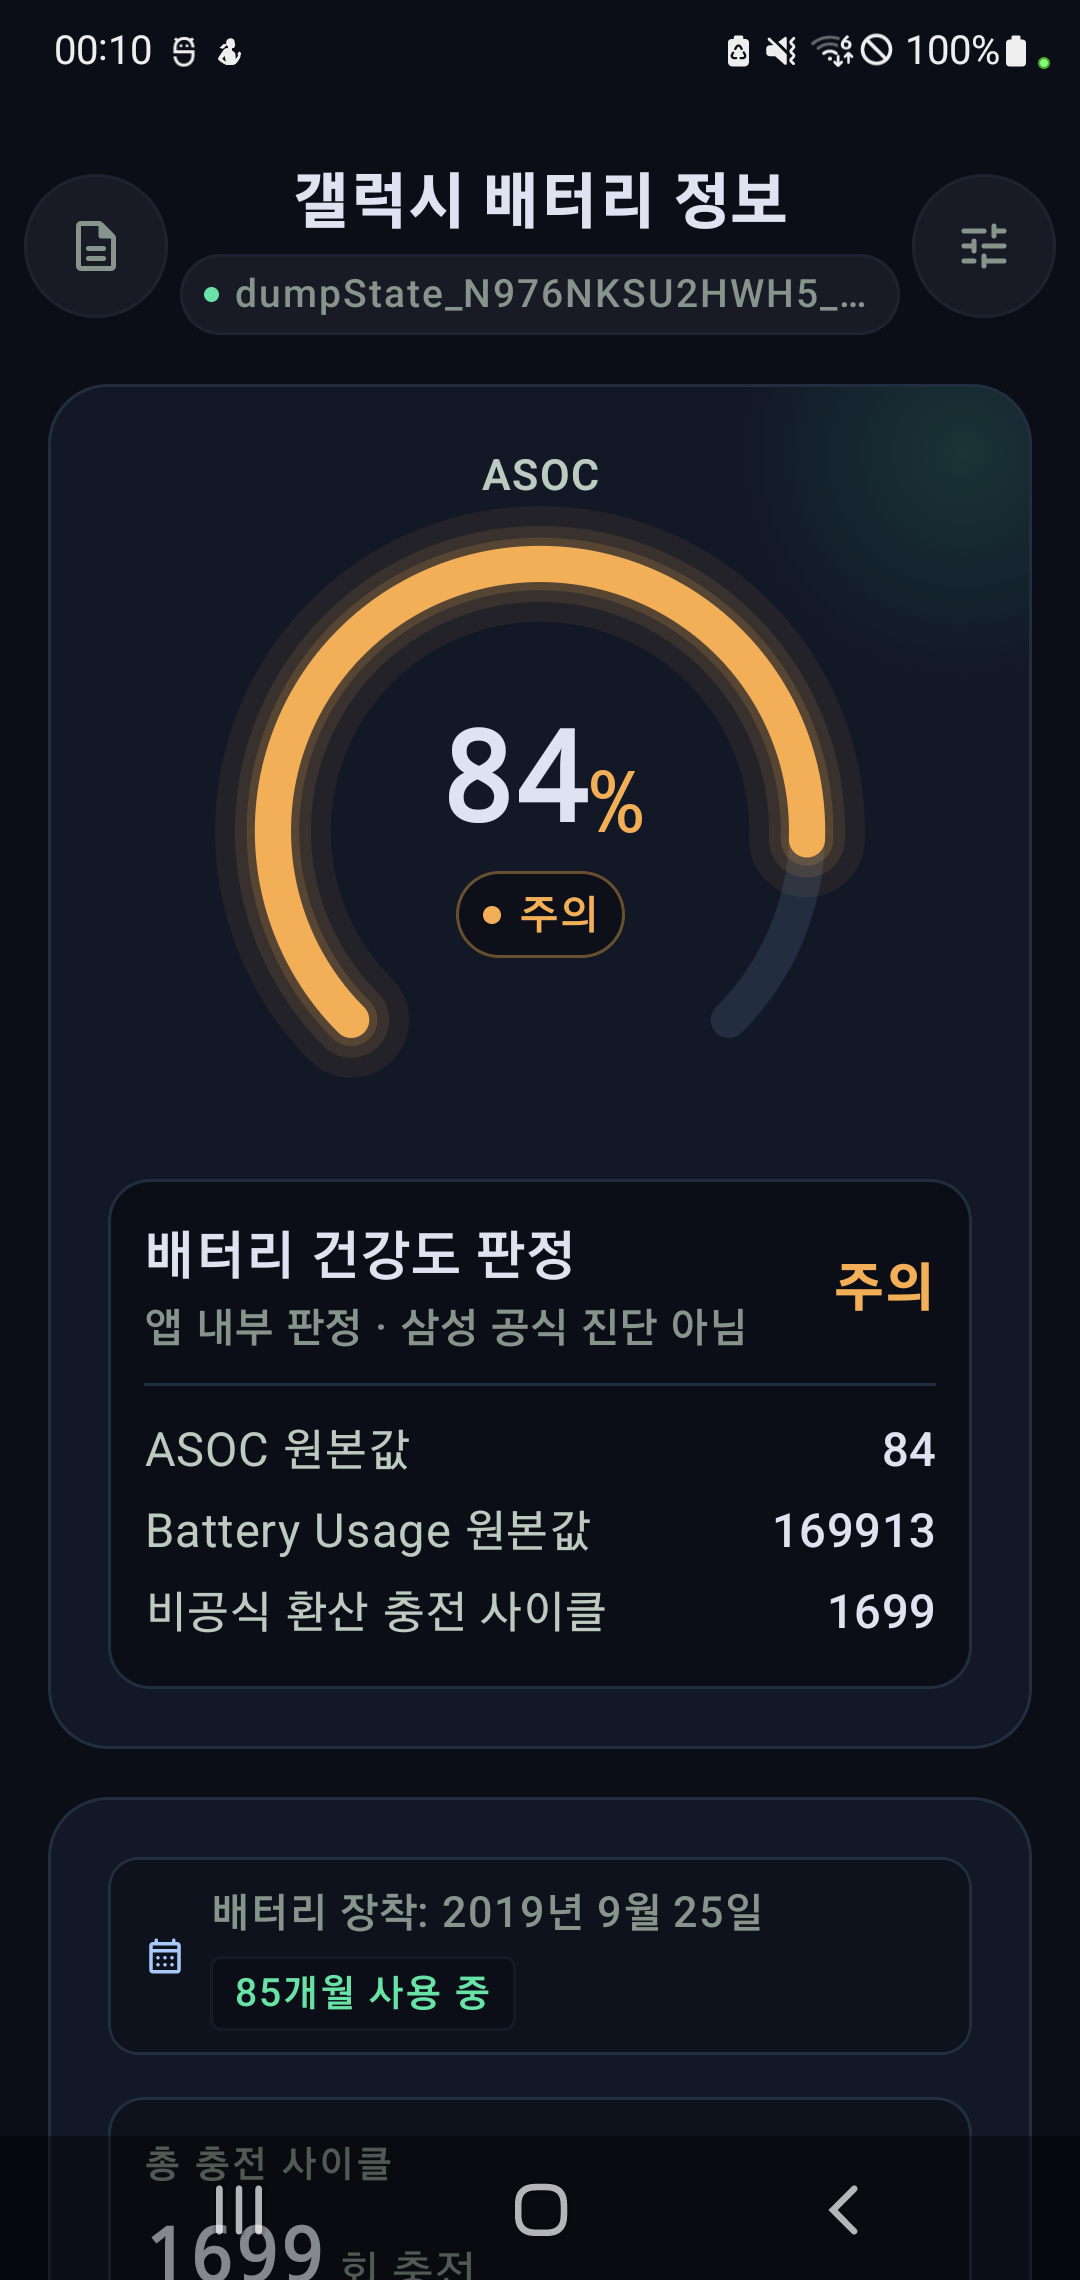
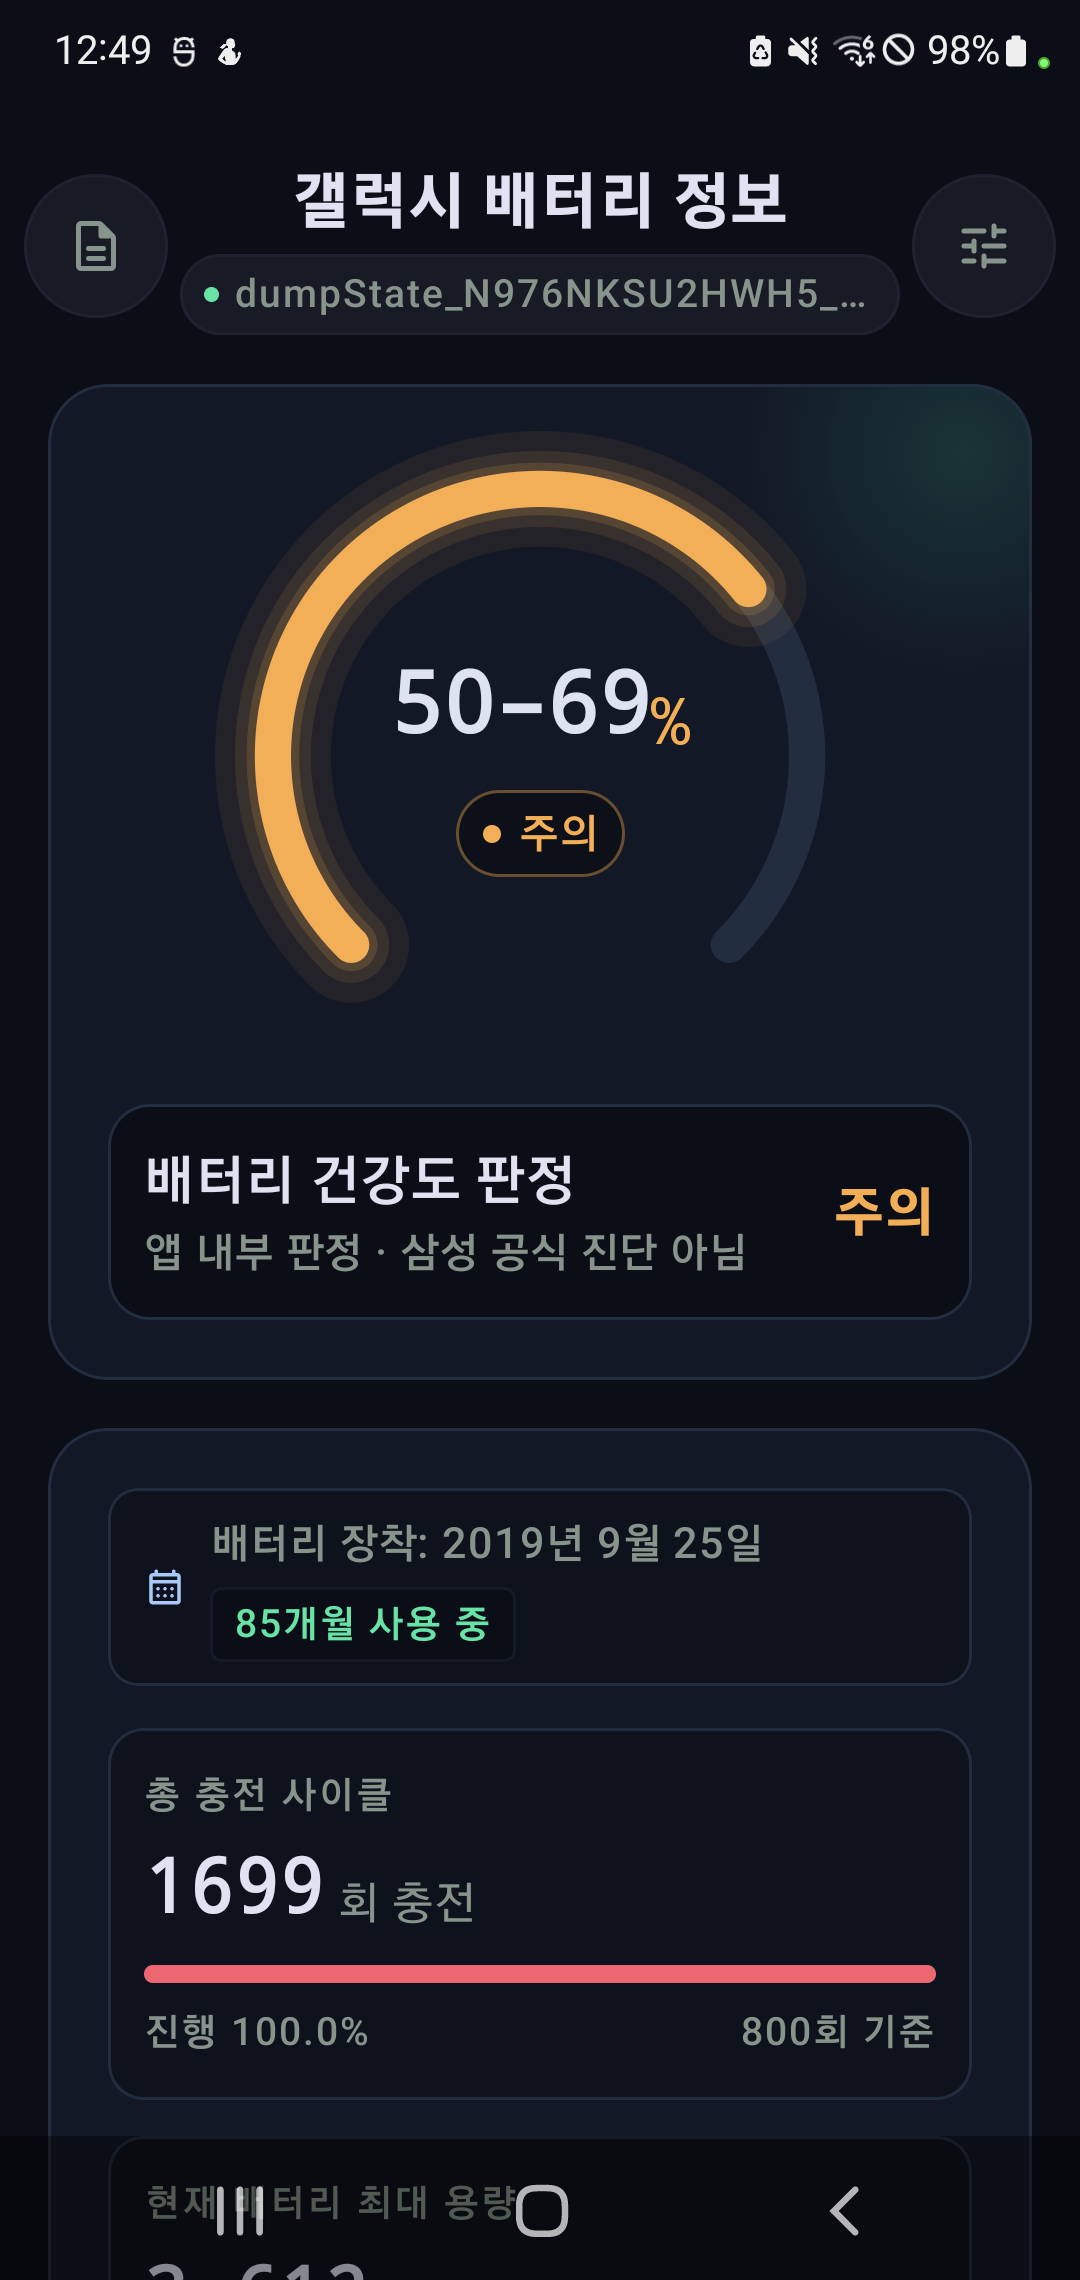
docs: README 기기 스크린샷 갱신
실제 Fold3 및 Note10+ 앱 화면을 추가하고 README 링크를 갱신합니다.

diff --git a/README.md b/README.md
@@ -7,7 +7,7 @@
 
 <table>
   <tr>
-    <td align="center"><img width="450" alt="폴드3" src="https://raw.githubusercontent.com/Donian-kor/Galaxy_Battery/main/screenshots/dashboard_fold4.png" /></td>
+    <td align="center"><img width="450" alt="폴드3" src="https://raw.githubusercontent.com/Donian-kor/Galaxy_Battery/main/screenshots/dashboard_fold3.png" /></td>
     <td align="center"><img width="250" alt="노트10+" src="https://raw.githubusercontent.com/Donian-kor/Galaxy_Battery/main/screenshots/dashboard_note10.png" /></td>
   </tr>
   <tr>
